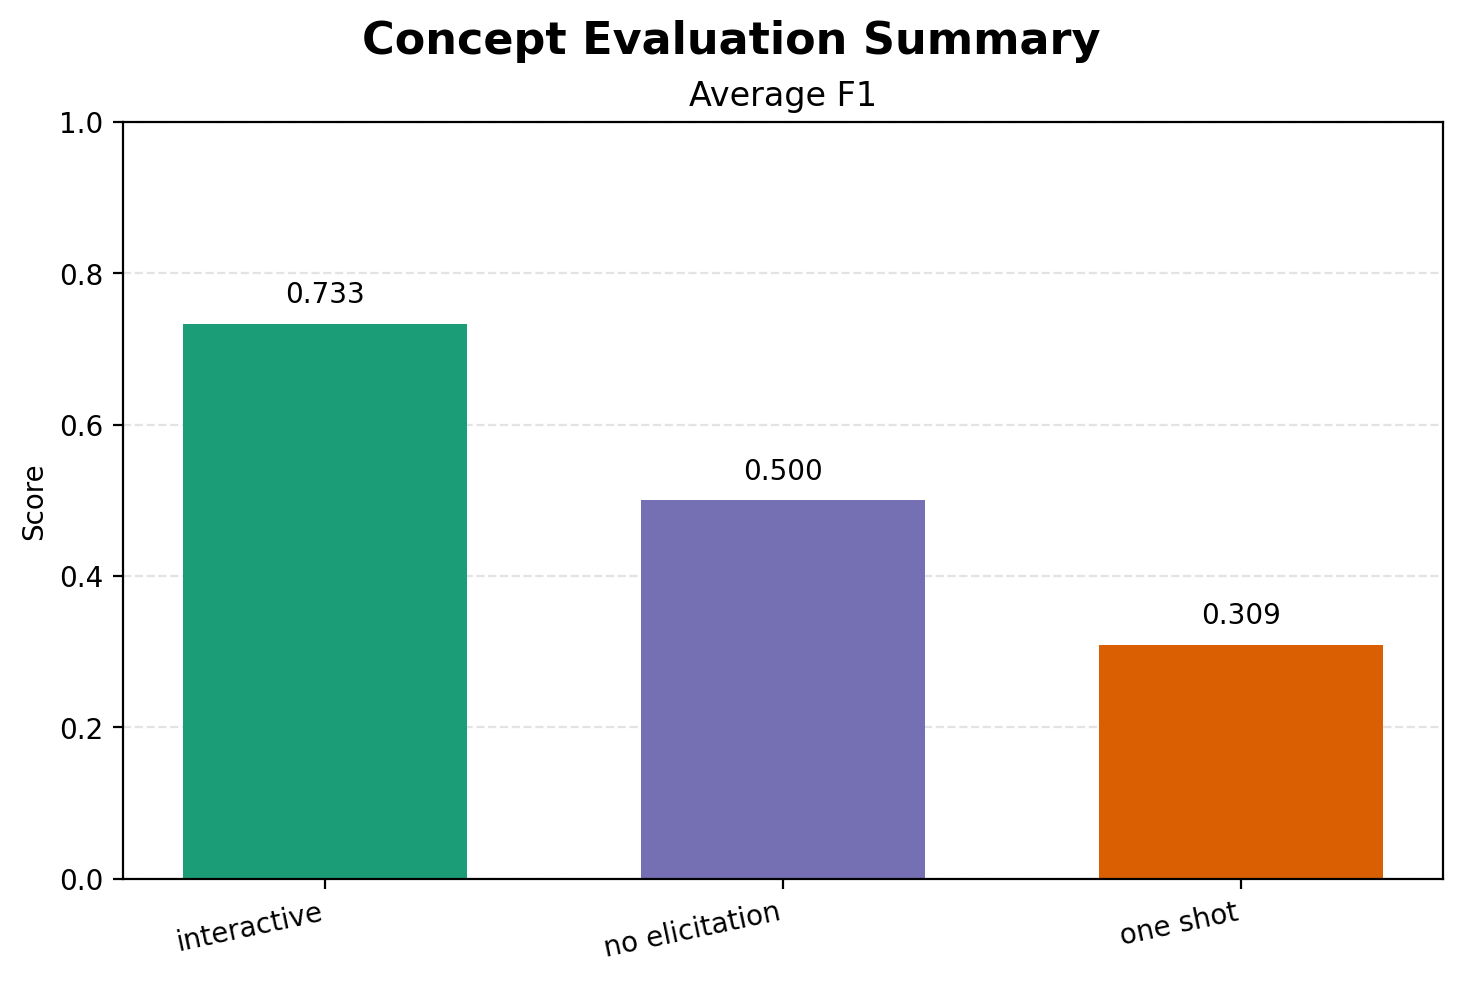
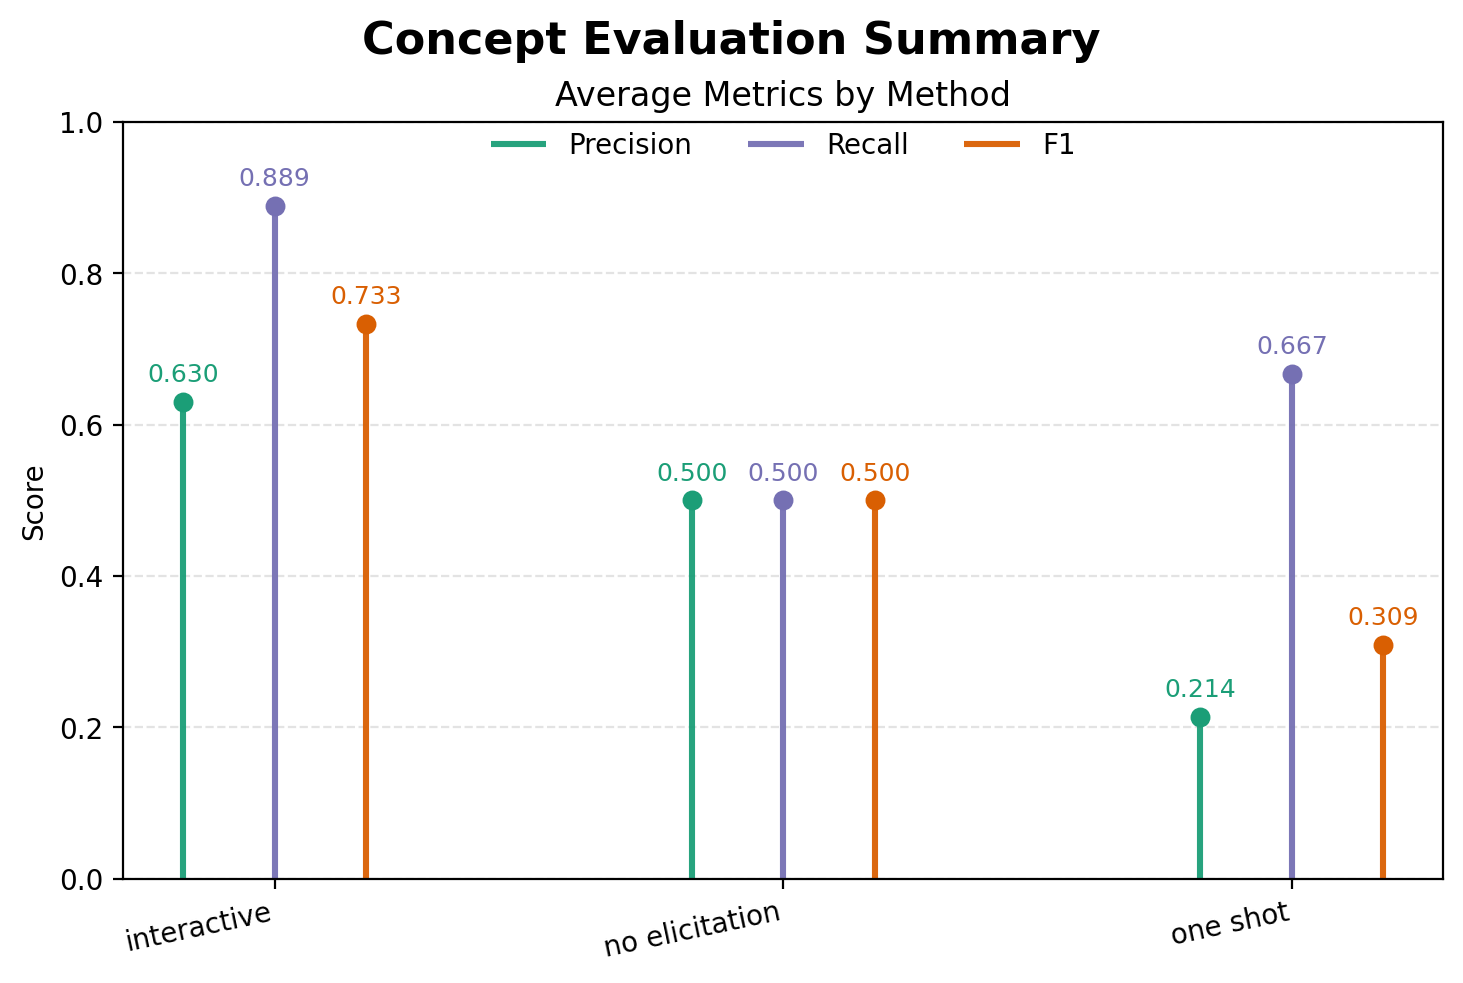
Feat: Added plots for precision and Recall

diff --git a/metaLoop/evaluation/plot_concept_eval.py b/metaLoop/evaluation/plot_concept_eval.py
@@ -7,15 +7,20 @@ import matplotlib.pyplot as plt
 
 ROOT = Path(__file__).resolve().parents[2]
 REPORT_PATH = ROOT / "metaLoop" / "evaluation" / "results" / "concept_eval_report.json"
-OUTPUT_PATH = ROOT / "metaLoop" / "evaluation" / "results" / "concept_eval_summary.png"
+OUTPUT_DIR = ROOT / "metaLoop" / "evaluation" / "results"
+OUTPUT_PATH = OUTPUT_DIR / "concept_eval_summary.png"
 
 
 def load_summary(report_path: Path) -> dict[str, dict[str, float]]:
     rows = json.loads(report_path.read_text(encoding="utf-8"))
-    by_method: dict[str, dict[str, float]] = defaultdict(lambda: {"f1_sum": 0.0, "count": 0.0})
+    by_method: dict[str, dict[str, float]] = defaultdict(
+        lambda: {"precision_sum": 0.0, "recall_sum": 0.0, "f1_sum": 0.0, "count": 0.0}
+    )
 
     for row in rows:
         method = row["method"]
+        by_method[method]["precision_sum"] += float(row["precision"])
+        by_method[method]["recall_sum"] += float(row["recall"])
         by_method[method]["f1_sum"] += float(row["f1"])
         by_method[method]["count"] += 1.0
 
@@ -23,6 +28,8 @@ def load_summary(report_path: Path) -> dict[str, dict[str, float]]:
     for method, stats in by_method.items():
         count = stats["count"] or 1.0
         summary[method] = {
+            "avg_precision": stats["precision_sum"] / count,
+            "avg_recall": stats["recall_sum"] / count,
             "avg_f1": stats["f1_sum"] / count,
         }
     return summary
@@ -31,30 +38,39 @@ def load_summary(report_path: Path) -> dict[str, dict[str, float]]:
 def plot_summary(summary: dict[str, dict[str, float]], output_path: Path) -> Path:
     methods = ["interactive", "no_elicitation", "one_shot"]
     labels = [name.replace("_", " ") for name in methods]
-    avg_f1 = [summary.get(name, {}).get("avg_f1", 0.0) for name in methods]
-    colors = ["#1b9e77", "#7570b3", "#d95f02"]
+    x_positions = list(range(len(methods)))
+    precision_values = [summary.get(name, {}).get("avg_precision", 0.0) for name in methods]
+    recall_values = [summary.get(name, {}).get("avg_recall", 0.0) for name in methods]
+    f1_values = [summary.get(name, {}).get("avg_f1", 0.0) for name in methods]
+    series = [
+        ("Precision", precision_values, "#1b9e77", -0.18),
+        ("Recall", recall_values, "#7570b3", 0.0),
+        ("F1", f1_values, "#d95f02", 0.18),
+    ]
 
     fig, ax = plt.subplots(figsize=(7.2, 4.8), constrained_layout=True)
     fig.suptitle("Concept Evaluation Summary", fontsize=16, fontweight="bold")
 
-    bars = ax.bar(labels, avg_f1, color=colors, width=0.62)
-    ax.set_title("Average F1")
+    for label, values, color, offset in series:
+        shifted_positions = [x + offset for x in x_positions]
+        ax.vlines(shifted_positions, 0, values, color=color, linewidth=2.2, alpha=0.95, label=label)
+        ax.scatter(shifted_positions, values, color=color, s=38, zorder=3)
+
+    ax.set_title("Average Metrics by Method")
     ax.set_ylim(0, 1)
     ax.set_ylabel("Score")
+    ax.set_xticks(x_positions, labels)
     ax.grid(axis="y", linestyle="--", alpha=0.35)
     ax.set_axisbelow(True)
     for tick in ax.get_xticklabels():
         tick.set_rotation(12)
         tick.set_ha("right")
-    for bar, value in zip(bars, avg_f1):
-        ax.text(
-            bar.get_x() + bar.get_width() / 2,
-            value + 0.02,
-            f"{value:.3f}",
-            ha="center",
-            va="bottom",
-            fontsize=10,
-        )
+
+    for _label, values, color, offset in series:
+        for x_pos, value in zip(x_positions, values):
+            ax.text(x_pos + offset, value + 0.02, f"{value:.3f}", ha="center", va="bottom", fontsize=9, color=color)
+
+    ax.legend(frameon=False, loc="upper center", ncol=3, bbox_to_anchor=(0.5, 1.02))
 
     output_path.parent.mkdir(parents=True, exist_ok=True)
     fig.savefig(output_path, dpi=200, bbox_inches="tight")
